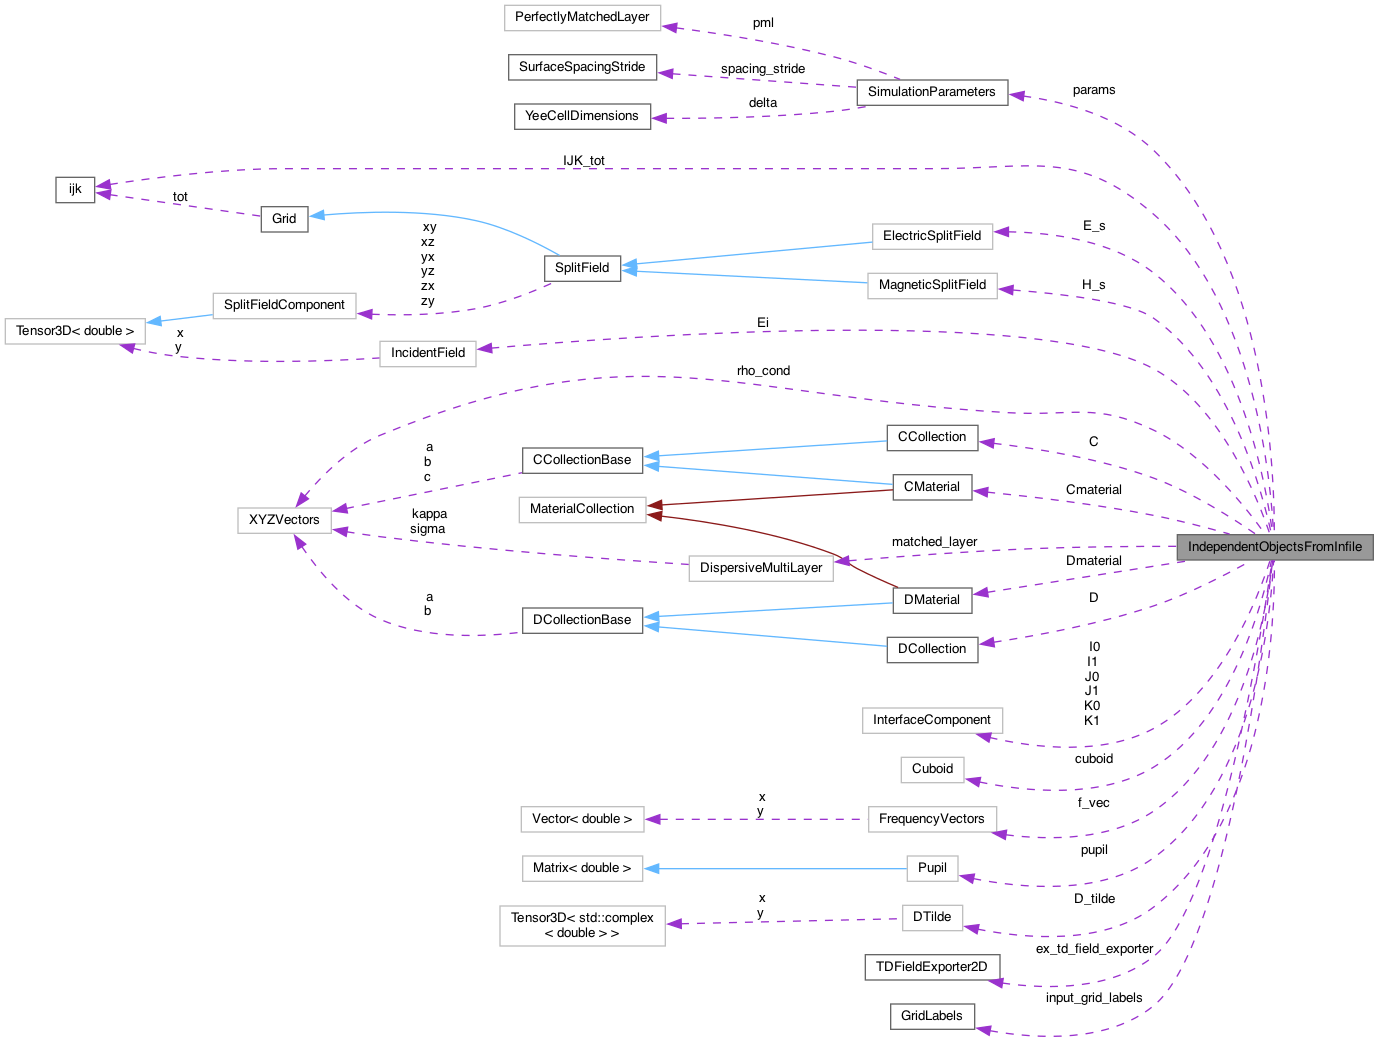
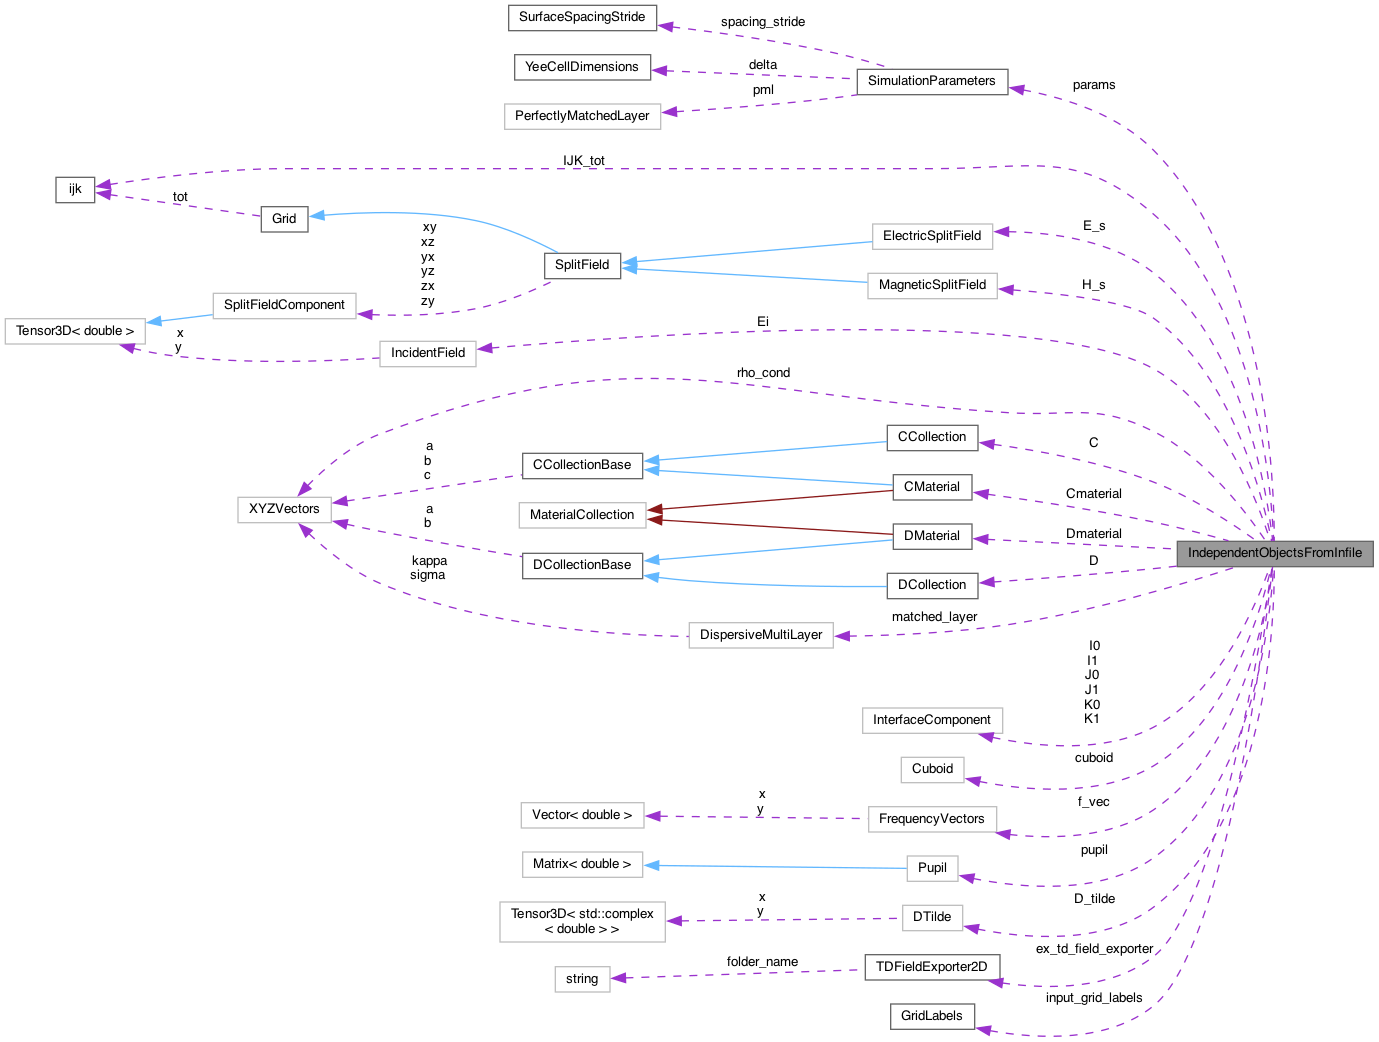
Deploying to gh-pages from @ UCL/TDMS@369d963088b2b19baf01351c3273a97a09319914 🚀

diff --git a/class_objects_from_infile.html b/class_objects_from_infile.html
@@ -117,43 +117,44 @@ Collaboration diagram for ObjectsFromInfile:</div>
 <div class="dyncontent">
 <div class="center"><img src="class_objects_from_infile__coll__graph.png" border="0" usemap="#a_objects_from_infile_coll__map" alt="Collaboration graph"/></div>
 <map name="a_objects_from_infile_coll__map" id="a_objects_from_infile_coll__map">
-<area shape="rect" title="Class that handles the creation of C++ arrays from the matrices passed in an InputMatrices object,..." alt="" coords="1519,915,1644,941"/>
-<area shape="rect" href="class_independent_objects_from_infile.html" title="Class that constructs C++ arrays from an InputMatrices object and the SolverMethod enum." alt="" coords="1219,475,1415,501"/>
-<area shape="rect" href="class_simulation_parameters.html" title="Class storing the various constants and behaviour flags for one executation of the tdms executable." alt="" coords="857,273,1008,298"/>
-<area shape="rect" href="struct_perfectly_matched_layer.html" title=" " alt="" coords="505,282,661,307"/>
-<area shape="rect" href="struct_surface_spacing_stride.html" title="A three&#45;tuple of integers that contain the stride in each direction to extract the phasors on." alt="" coords="509,183,657,209"/>
-<area shape="rect" href="struct_yee_cell_dimensions.html" title="The x,y,z lengths of the cuboidal Yee cells." alt="" coords="515,233,651,258"/>
-<area shape="rect" href="class_electric_split_field.html" title=" " alt="" coords="873,374,993,399"/>
-<area shape="rect" href="class_split_field.html" title="A split field defined over a grid." alt="" coords="545,419,621,445"/>
-<area shape="rect" href="class_magnetic_split_field.html" title=" " alt="" coords="868,423,997,449"/>
-<area shape="rect" href="class_grid.html" title=" " alt="" coords="261,193,308,218"/>
-<area shape="rect" href="structijk.html" title="A structure for holding three values, which typically pertain to the same quantity but for each of th..." alt="" coords="56,89,95,114"/>
-<area shape="rect" href="class_split_field_component.html" title=" " alt="" coords="213,409,356,434"/>
-<area shape="rect" href="class_tensor3_d.html" title=" " alt="" coords="5,347,145,373"/>
-<area shape="rect" href="class_incident_field.html" title=" " alt="" coords="380,313,476,338"/>
-<area shape="rect" href="class_c_material.html" title="A class to encapsulate collection of algebraic terms in the discretized forms of Maxwells equations f..." alt="" coords="893,687,972,713"/>
-<area shape="rect" href="class_c_collection_base.html" title="A class to encapsulate collection of algebraic terms in the discretized forms of Maxwells equations f..." alt="" coords="523,721,643,746"/>
-<area shape="rect" href="class_c_collection.html" title="A class to encapsulate collection of algebraic terms in the discretized forms of Maxwells equations f..." alt="" coords="887,846,978,871"/>
-<area shape="rect" href="class_x_y_z_vectors.html" title=" " alt="" coords="238,561,331,586"/>
-<area shape="rect" href="class_d_collection_base.html" title="A class to encapsulate collection of algebraic terms in the discretized forms of Maxwells equations f..." alt="" coords="523,587,643,613"/>
-<area shape="rect" href="class_dispersive_multi_layer.html" title=" " alt="" coords="689,479,833,505"/>
-<area shape="rect" href="class_material_collection.html" title=" " alt="" coords="519,663,646,689"/>
-<area shape="rect" href="class_d_material.html" title="A class to encapsulate collection of algebraic terms in the discretized forms of Maxwells equations f..." alt="" coords="893,637,972,662"/>
-<area shape="rect" href="class_d_collection.html" title="A class to encapsulate collection of algebraic terms in the discretized forms of Maxwells equations f..." alt="" coords="887,587,978,613"/>
-<area shape="rect" href="class_interface_component.html" title=" " alt="" coords="863,747,1003,773"/>
-<area shape="rect" href="class_cuboid.html" title=" " alt="" coords="901,797,964,822"/>
-<area shape="rect" href="class_frequency_vectors.html" title=" " alt="" coords="869,895,997,921"/>
-<area shape="rect" href="class_vector.html" title=" " alt="" coords="521,921,644,946"/>
-<area shape="rect" href="class_frequency_extract_vector.html" title=" " alt="" coords="1032,943,1195,969"/>
-<area shape="rect" href="class_pupil.html" title=" " alt="" coords="907,74,958,99"/>
-<area shape="rect" href="class_matrix.html" title=" " alt="" coords="523,69,643,94"/>
-<area shape="rect" href="class_d_tilde.html" title=" " alt="" coords="903,174,963,199"/>
-<area shape="rect" href="class_tensor3_d.html" title=" " alt="" coords="500,119,665,159"/>
-<area shape="rect" href="class_t_d_field_exporter2_d.html" title=" " alt="" coords="865,125,1000,150"/>
-<area shape="rect" href="class_grid_labels.html" title=" " alt="" coords="891,223,975,249"/>
-<area shape="rect" href="class_source.html" title="The Source class stores values of the Source field across a particular plane." alt="" coords="1285,889,1348,914"/>
-<area shape="rect" href="class_grating_structure.html" title=" " alt="" coords="1258,1002,1375,1027"/>
-<area shape="rect" href="class_matrix.html" title=" " alt="" coords="885,1002,981,1027"/>
+<area shape="rect" title="Class that handles the creation of C++ arrays from the matrices passed in an InputMatrices object,..." alt="" coords="1519,981,1644,1007"/>
+<area shape="rect" href="class_independent_objects_from_infile.html" title="Class that constructs C++ arrays from an InputMatrices object and the SolverMethod enum." alt="" coords="1219,496,1415,521"/>
+<area shape="rect" href="class_simulation_parameters.html" title="Class storing the various constants and behaviour flags for one executation of the tdms executable." alt="" coords="857,153,1008,179"/>
+<area shape="rect" href="struct_perfectly_matched_layer.html" title=" " alt="" coords="505,104,661,129"/>
+<area shape="rect" href="struct_surface_spacing_stride.html" title="A three&#45;tuple of integers that contain the stride in each direction to extract the phasors on." alt="" coords="509,153,657,179"/>
+<area shape="rect" href="struct_yee_cell_dimensions.html" title="The x,y,z lengths of the cuboidal Yee cells." alt="" coords="515,55,651,80"/>
+<area shape="rect" href="class_electric_split_field.html" title=" " alt="" coords="873,257,993,283"/>
+<area shape="rect" href="class_split_field.html" title="A split field defined over a grid." alt="" coords="545,287,621,312"/>
+<area shape="rect" href="class_magnetic_split_field.html" title=" " alt="" coords="868,307,997,332"/>
+<area shape="rect" href="class_grid.html" title=" " alt="" coords="261,252,308,277"/>
+<area shape="rect" href="structijk.html" title="A structure for holding three values, which typically pertain to the same quantity but for each of th..." alt="" coords="56,223,95,248"/>
+<area shape="rect" href="class_split_field_component.html" title=" " alt="" coords="213,339,356,364"/>
+<area shape="rect" href="class_tensor3_d.html" title=" " alt="" coords="5,364,145,389"/>
+<area shape="rect" href="class_incident_field.html" title=" " alt="" coords="380,387,476,412"/>
+<area shape="rect" href="class_c_material.html" title="A class to encapsulate collection of algebraic terms in the discretized forms of Maxwells equations f..." alt="" coords="893,508,972,533"/>
+<area shape="rect" href="class_c_collection_base.html" title="A class to encapsulate collection of algebraic terms in the discretized forms of Maxwells equations f..." alt="" coords="523,479,643,504"/>
+<area shape="rect" href="class_c_collection.html" title="A class to encapsulate collection of algebraic terms in the discretized forms of Maxwells equations f..." alt="" coords="887,459,978,484"/>
+<area shape="rect" href="class_x_y_z_vectors.html" title=" " alt="" coords="238,552,331,577"/>
+<area shape="rect" href="class_d_collection_base.html" title="A class to encapsulate collection of algebraic terms in the discretized forms of Maxwells equations f..." alt="" coords="523,639,643,664"/>
+<area shape="rect" href="class_dispersive_multi_layer.html" title=" " alt="" coords="689,587,833,612"/>
+<area shape="rect" href="class_material_collection.html" title=" " alt="" coords="519,528,646,553"/>
+<area shape="rect" href="class_d_material.html" title="A class to encapsulate collection of algebraic terms in the discretized forms of Maxwells equations f..." alt="" coords="893,621,972,647"/>
+<area shape="rect" href="class_d_collection.html" title="A class to encapsulate collection of algebraic terms in the discretized forms of Maxwells equations f..." alt="" coords="887,671,978,696"/>
+<area shape="rect" href="class_interface_component.html" title=" " alt="" coords="863,733,1003,759"/>
+<area shape="rect" href="class_cuboid.html" title=" " alt="" coords="901,783,964,808"/>
+<area shape="rect" href="class_frequency_vectors.html" title=" " alt="" coords="869,932,997,957"/>
+<area shape="rect" href="class_vector.html" title=" " alt="" coords="521,961,644,987"/>
+<area shape="rect" href="class_frequency_extract_vector.html" title=" " alt="" coords="1032,976,1195,1001"/>
+<area shape="rect" href="class_pupil.html" title=" " alt="" coords="907,832,958,857"/>
+<area shape="rect" href="class_matrix.html" title=" " alt="" coords="523,823,643,848"/>
+<area shape="rect" href="class_d_tilde.html" title=" " alt="" coords="903,881,963,907"/>
+<area shape="rect" href="class_tensor3_d.html" title=" " alt="" coords="500,873,665,913"/>
+<area shape="rect" href="class_t_d_field_exporter2_d.html" title=" " alt="" coords="865,31,1000,56"/>
+<area shape="rect" title=" " alt="" coords="555,5,610,31"/>
+<area shape="rect" href="class_grid_labels.html" title=" " alt="" coords="891,104,975,129"/>
+<area shape="rect" href="class_source.html" title="The Source class stores values of the Source field across a particular plane." alt="" coords="1285,1013,1348,1039"/>
+<area shape="rect" href="class_grating_structure.html" title=" " alt="" coords="1258,1063,1375,1088"/>
+<area shape="rect" href="class_matrix.html" title=" " alt="" coords="885,1063,981,1088"/>
 </map>
 <center><span class="legend">[<a target="top" href="graph_legend.html">legend</a>]</span></center></div>
 <table class="memberdecls">

diff --git a/class_independent_objects_from_infile.html b/class_independent_objects_from_infile.html
@@ -117,13 +117,13 @@ Collaboration diagram for IndependentObjectsFromInfile:</div>
 <div class="dyncontent">
 <div class="center"><img src="class_independent_objects_from_infile__coll__graph.png" border="0" usemap="#a_independent_objects_from_infile_coll__map" alt="Collaboration graph"/></div>
 <map name="a_independent_objects_from_infile_coll__map" id="a_independent_objects_from_infile_coll__map">
-<area shape="rect" title="Class that constructs C++ arrays from an InputMatrices object and the SolverMethod enum." alt="" coords="1177,535,1373,560"/>
-<area shape="rect" href="class_simulation_parameters.html" title="Class storing the various constants and behaviour flags for one executation of the tdms executable." alt="" coords="857,80,1008,105"/>
-<area shape="rect" href="struct_perfectly_matched_layer.html" title=" " alt="" coords="505,5,661,31"/>
-<area shape="rect" href="struct_surface_spacing_stride.html" title="A three&#45;tuple of integers that contain the stride in each direction to extract the phasors on." alt="" coords="509,55,657,80"/>
-<area shape="rect" href="struct_yee_cell_dimensions.html" title="The x,y,z lengths of the cuboidal Yee cells." alt="" coords="515,104,651,129"/>
+<area shape="rect" title="Class that constructs C++ arrays from an InputMatrices object and the SolverMethod enum." alt="" coords="1177,541,1373,567"/>
+<area shape="rect" href="class_simulation_parameters.html" title="Class storing the various constants and behaviour flags for one executation of the tdms executable." alt="" coords="857,69,1008,95"/>
+<area shape="rect" href="struct_perfectly_matched_layer.html" title=" " alt="" coords="505,104,661,129"/>
+<area shape="rect" href="struct_surface_spacing_stride.html" title="A three&#45;tuple of integers that contain the stride in each direction to extract the phasors on." alt="" coords="509,5,657,31"/>
+<area shape="rect" href="struct_yee_cell_dimensions.html" title="The x,y,z lengths of the cuboidal Yee cells." alt="" coords="515,55,651,80"/>
 <area shape="rect" href="class_electric_split_field.html" title=" " alt="" coords="873,224,993,249"/>
-<area shape="rect" href="class_split_field.html" title="A split field defined over a grid." alt="" coords="545,256,621,281"/>
+<area shape="rect" href="class_split_field.html" title="A split field defined over a grid." alt="" coords="545,253,621,279"/>
 <area shape="rect" href="class_magnetic_split_field.html" title=" " alt="" coords="868,273,997,299"/>
 <area shape="rect" href="class_grid.html" title=" " alt="" coords="261,207,308,232"/>
 <area shape="rect" href="structijk.html" title="A structure for holding three values, which typically pertain to the same quantity but for each of th..." alt="" coords="56,177,95,203"/>
@@ -131,23 +131,24 @@ Collaboration diagram for IndependentObjectsFromInfile:</div>
 <area shape="rect" href="class_tensor3_d.html" title=" " alt="" coords="5,319,145,344"/>
 <area shape="rect" href="class_incident_field.html" title=" " alt="" coords="380,341,476,367"/>
 <area shape="rect" href="class_c_material.html" title="A class to encapsulate collection of algebraic terms in the discretized forms of Maxwells equations f..." alt="" coords="893,475,972,500"/>
-<area shape="rect" href="class_c_collection_base.html" title="A class to encapsulate collection of algebraic terms in the discretized forms of Maxwells equations f..." alt="" coords="523,448,643,473"/>
+<area shape="rect" href="class_c_collection_base.html" title="A class to encapsulate collection of algebraic terms in the discretized forms of Maxwells equations f..." alt="" coords="523,453,643,479"/>
 <area shape="rect" href="class_c_collection.html" title="A class to encapsulate collection of algebraic terms in the discretized forms of Maxwells equations f..." alt="" coords="887,425,978,451"/>
-<area shape="rect" href="class_x_y_z_vectors.html" title=" " alt="" coords="238,508,331,533"/>
-<area shape="rect" href="class_d_collection_base.html" title="A class to encapsulate collection of algebraic terms in the discretized forms of Maxwells equations f..." alt="" coords="523,608,643,633"/>
-<area shape="rect" href="class_dispersive_multi_layer.html" title=" " alt="" coords="689,556,833,581"/>
-<area shape="rect" href="class_material_collection.html" title=" " alt="" coords="519,497,646,523"/>
-<area shape="rect" href="class_d_material.html" title="A class to encapsulate collection of algebraic terms in the discretized forms of Maxwells equations f..." alt="" coords="893,588,972,613"/>
-<area shape="rect" href="class_d_collection.html" title="A class to encapsulate collection of algebraic terms in the discretized forms of Maxwells equations f..." alt="" coords="887,637,978,663"/>
+<area shape="rect" href="class_x_y_z_vectors.html" title=" " alt="" coords="238,497,331,523"/>
+<area shape="rect" href="class_d_collection_base.html" title="A class to encapsulate collection of algebraic terms in the discretized forms of Maxwells equations f..." alt="" coords="523,553,643,579"/>
+<area shape="rect" href="class_dispersive_multi_layer.html" title=" " alt="" coords="689,623,833,648"/>
+<area shape="rect" href="class_material_collection.html" title=" " alt="" coords="519,503,646,528"/>
+<area shape="rect" href="class_d_material.html" title="A class to encapsulate collection of algebraic terms in the discretized forms of Maxwells equations f..." alt="" coords="893,524,972,549"/>
+<area shape="rect" href="class_d_collection.html" title="A class to encapsulate collection of algebraic terms in the discretized forms of Maxwells equations f..." alt="" coords="887,573,978,599"/>
 <area shape="rect" href="class_interface_component.html" title=" " alt="" coords="863,708,1003,733"/>
 <area shape="rect" href="class_cuboid.html" title=" " alt="" coords="901,757,964,783"/>
 <area shape="rect" href="class_frequency_vectors.html" title=" " alt="" coords="869,807,997,832"/>
-<area shape="rect" href="class_vector.html" title=" " alt="" coords="521,807,644,832"/>
+<area shape="rect" href="class_vector.html" title=" " alt="" coords="521,803,644,828"/>
 <area shape="rect" href="class_pupil.html" title=" " alt="" coords="907,856,958,881"/>
-<area shape="rect" href="class_matrix.html" title=" " alt="" coords="523,856,643,881"/>
+<area shape="rect" href="class_matrix.html" title=" " alt="" coords="523,852,643,877"/>
 <area shape="rect" href="class_d_tilde.html" title=" " alt="" coords="903,905,963,931"/>
-<area shape="rect" href="class_tensor3_d.html" title=" " alt="" coords="500,906,665,946"/>
+<area shape="rect" href="class_tensor3_d.html" title=" " alt="" coords="500,902,665,942"/>
 <area shape="rect" href="class_t_d_field_exporter2_d.html" title=" " alt="" coords="865,955,1000,980"/>
+<area shape="rect" title=" " alt="" coords="555,967,610,992"/>
 <area shape="rect" href="class_grid_labels.html" title=" " alt="" coords="891,1004,975,1029"/>
 </map>
 <center><span class="legend">[<a target="top" href="graph_legend.html">legend</a>]</span></center></div>

diff --git a/field_8h_source.html b/field_8h_source.html
@@ -618,7 +618,7 @@ $(document).ready(function(){initNavTree('field_8h_source.html',''); initResizab
 <div class="line"><a id="l00522" name="l00522"></a><span class="lineno">  522</span><span class="keyword">public</span>:</div>
 <div class="line"><a id="l00523" name="l00523"></a><span class="lineno">  523</span>  mxArray *matlab_array = <span class="keyword">nullptr</span>;</div>
 <div class="line"><a id="l00524" name="l00524"></a><span class="lineno">  524</span>  <span class="keywordtype">double</span> **array = <span class="keyword">nullptr</span>;</div>
-<div class="line"><a id="l00525" name="l00525"></a><span class="lineno">  525</span>  <span class="keyword">const</span> <span class="keywordtype">char</span> *folder_name = <span class="keyword">nullptr</span>;</div>
+<div class="line"><a id="l00525" name="l00525"></a><span class="lineno">  525</span>  std::string folder_name = <span class="stringliteral">&quot;&quot;</span>;</div>
 <div class="line"><a id="l00526" name="l00526"></a><span class="lineno">  526</span><span class="comment"></span> </div>
 <div class="line"><a id="l00527" name="l00527"></a><span class="lineno">  527</span><span class="comment">  /**</span></div>
 <div class="line"><a id="l00528" name="l00528"></a><span class="lineno">  528</span><span class="comment">   * Allocate the arrays to hold the field</span></div>
@@ -693,8 +693,8 @@ $(document).ready(function(){initNavTree('field_8h_source.html',''); initResizab
 <div class="ttc" id="aclass_split_field_html_ad43c2ab34b1a059d90c374bc49c48073"><div class="ttname"><a href="class_split_field.html#ad43c2ab34b1a059d90c374bc49c48073">SplitField::zx</a></div><div class="ttdeci">SplitFieldComponent zx</div><div class="ttdef"><b>Definition:</b> field.h:99</div></div>
 <div class="ttc" id="aclass_split_field_html_af1b03f0edae0a1089db41a3710157840"><div class="ttname"><a href="class_split_field.html#af1b03f0edae0a1089db41a3710157840">SplitField::xy</a></div><div class="ttdeci">SplitFieldComponent xy</div><div class="ttdef"><b>Definition:</b> field.h:91</div></div>
 <div class="ttc" id="aclass_t_d_field_exporter2_d_html"><div class="ttname"><a href="class_t_d_field_exporter2_d.html">TDFieldExporter2D</a></div><div class="ttdef"><b>Definition:</b> field.h:518</div></div>
-<div class="ttc" id="aclass_t_d_field_exporter2_d_html_acc25ca6d93da4b602d87ea96d709fd7f"><div class="ttname"><a href="class_t_d_field_exporter2_d.html#acc25ca6d93da4b602d87ea96d709fd7f">TDFieldExporter2D::export_field</a></div><div class="ttdeci">void export_field(SplitField &amp;F, int stride, int iteration) const</div><div class="ttdef"><b>Definition:</b> td_field_exporter_2d.cpp:19</div></div>
-<div class="ttc" id="aclass_t_d_field_exporter2_d_html_aeaca0a7fe472bdaed9faf0be6caaf82b"><div class="ttname"><a href="class_t_d_field_exporter2_d.html#aeaca0a7fe472bdaed9faf0be6caaf82b">TDFieldExporter2D::allocate</a></div><div class="ttdeci">void allocate(int _nI, int _nK)</div><div class="ttdef"><b>Definition:</b> td_field_exporter_2d.cpp:7</div></div>
+<div class="ttc" id="aclass_t_d_field_exporter2_d_html_acc25ca6d93da4b602d87ea96d709fd7f"><div class="ttname"><a href="class_t_d_field_exporter2_d.html#acc25ca6d93da4b602d87ea96d709fd7f">TDFieldExporter2D::export_field</a></div><div class="ttdeci">void export_field(SplitField &amp;F, int stride, int iteration) const</div><div class="ttdef"><b>Definition:</b> td_field_exporter_2d.cpp:23</div></div>
+<div class="ttc" id="aclass_t_d_field_exporter2_d_html_aeaca0a7fe472bdaed9faf0be6caaf82b"><div class="ttname"><a href="class_t_d_field_exporter2_d.html#aeaca0a7fe472bdaed9faf0be6caaf82b">TDFieldExporter2D::allocate</a></div><div class="ttdeci">void allocate(int _nI, int _nK)</div><div class="ttdef"><b>Definition:</b> td_field_exporter_2d.cpp:11</div></div>
 <div class="ttc" id="aclass_tensor3_d_html"><div class="ttname"><a href="class_tensor3_d.html">Tensor3D</a></div><div class="ttdef"><b>Definition:</b> arrays.h:344</div></div>
 <div class="ttc" id="aclass_x_y_z_tensor3_d_html"><div class="ttname"><a href="class_x_y_z_tensor3_d.html">XYZTensor3D</a></div><div class="ttdef"><b>Definition:</b> arrays.h:18</div></div>
 <div class="ttc" id="adimensions_8h_html"><div class="ttname"><a href="dimensions_8h.html">dimensions.h</a></div><div class="ttdoc">Defines a class that serves as an explicit converter between MATLAB pointers and array dimensions.</div></div>

diff --git a/class_t_d_field_exporter2_d.html b/class_t_d_field_exporter2_d.html
@@ -101,6 +101,15 @@ $(document).ready(function(){initNavTree('class_t_d_field_exporter2_d.html','');
 <div class="contents">
 
 <p><code>#include &lt;<a class="el" href="field_8h_source.html">field.h</a>&gt;</code></p>
+<div class="dynheader">
+Collaboration diagram for TDFieldExporter2D:</div>
+<div class="dyncontent">
+<div class="center"><img src="class_t_d_field_exporter2_d__coll__graph.png" border="0" usemap="#a_t_d_field_exporter2_d_coll__map" alt="Collaboration graph"/></div>
+<map name="a_t_d_field_exporter2_d_coll__map" id="a_t_d_field_exporter2_d_coll__map">
+<area shape="rect" title=" " alt="" coords="5,93,140,119"/>
+<area shape="rect" title=" " alt="" coords="45,5,100,31"/>
+</map>
+<center><span class="legend">[<a target="top" href="graph_legend.html">legend</a>]</span></center></div>
 <table class="memberdecls">
 <tr class="heading"><td colspan="2"><h2 class="groupheader"><a id="pub-methods" name="pub-methods"></a>
 Public Member Functions</h2></td></tr>
@@ -117,9 +126,9 @@ mxArray *&#160;</td><td class="memItemRight" valign="bottom"><b>matlab_array</b>
 <tr class="memitem:a53958496fb847bfece7f38dbc0327e15"><td class="memItemLeft" align="right" valign="top"><a id="a53958496fb847bfece7f38dbc0327e15" name="a53958496fb847bfece7f38dbc0327e15"></a>
 double **&#160;</td><td class="memItemRight" valign="bottom"><b>array</b> = nullptr</td></tr>
 <tr class="separator:a53958496fb847bfece7f38dbc0327e15"><td class="memSeparator" colspan="2">&#160;</td></tr>
-<tr class="memitem:ad5167cbbb905731caed9a379f023420a"><td class="memItemLeft" align="right" valign="top"><a id="ad5167cbbb905731caed9a379f023420a" name="ad5167cbbb905731caed9a379f023420a"></a>
-const char *&#160;</td><td class="memItemRight" valign="bottom"><b>folder_name</b> = nullptr</td></tr>
-<tr class="separator:ad5167cbbb905731caed9a379f023420a"><td class="memSeparator" colspan="2">&#160;</td></tr>
+<tr class="memitem:ad6dfcf2605ca75fe80c677b76f1b594a"><td class="memItemLeft" align="right" valign="top"><a id="ad6dfcf2605ca75fe80c677b76f1b594a" name="ad6dfcf2605ca75fe80c677b76f1b594a"></a>
+std::string&#160;</td><td class="memItemRight" valign="bottom"><b>folder_name</b> = &quot;&quot;</td></tr>
+<tr class="separator:ad6dfcf2605ca75fe80c677b76f1b594a"><td class="memSeparator" colspan="2">&#160;</td></tr>
 </table><table class="memberdecls">
 <tr class="heading"><td colspan="2"><h2 class="groupheader"><a id="pri-attribs" name="pri-attribs"></a>
 Private Attributes</h2></td></tr>
